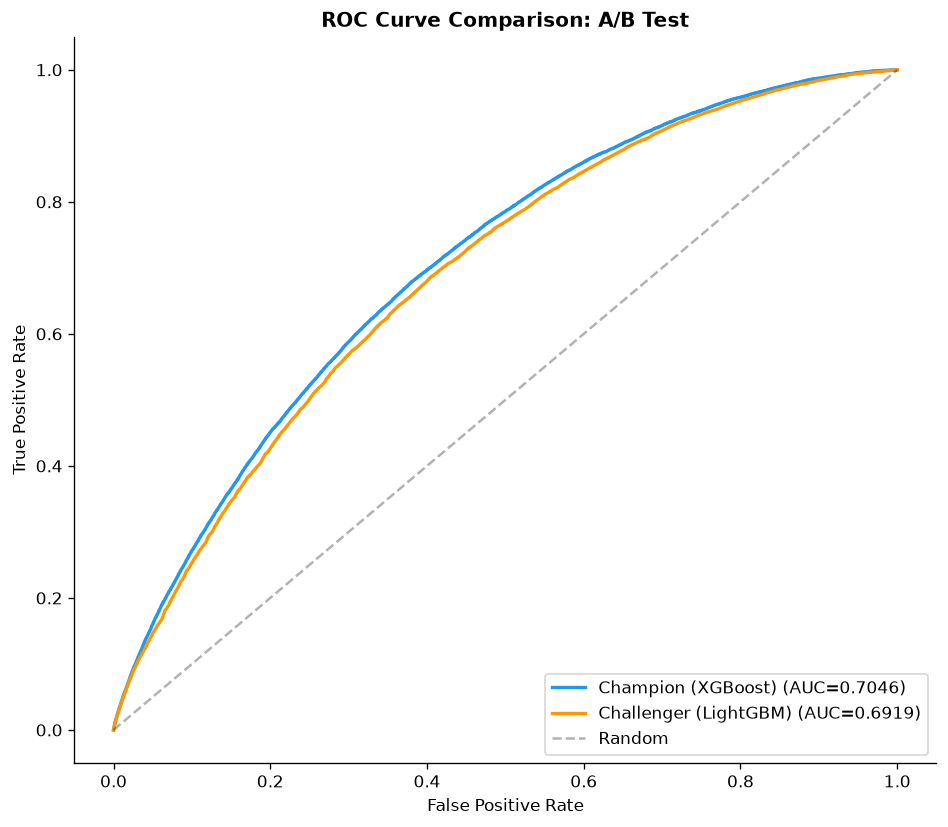
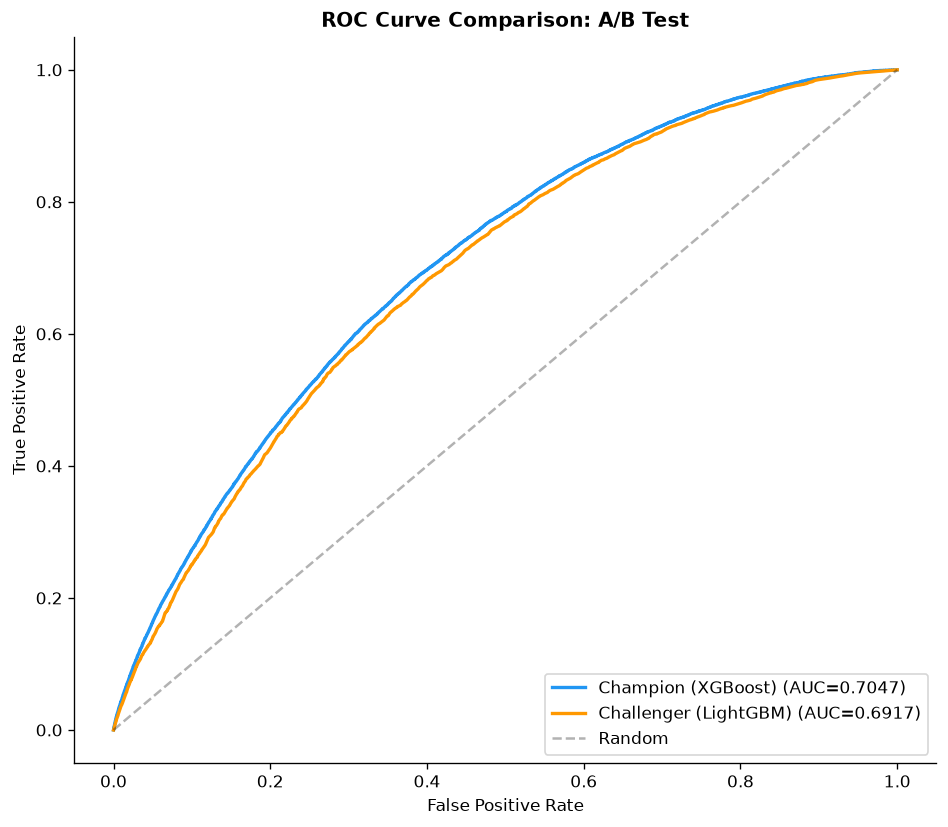
fix: correct A/B test routing bug - each loan routed to one model only

diff --git a/scripts/run_ab_test.py b/scripts/run_ab_test.py
@@ -151,11 +151,8 @@ def simulate_ab_test(
 ) -> pd.DataFrame:
     print("\n=== Step 2: Simulating A/B test on test set ===")
 
-    X_test = test[feature_cols]
-    y_test = test["default"]
-
-    champion_proba = champion_model.predict_proba(X_test)[:, 1]
-    challenger_proba = challenger_model.predict_proba(X_test)[:, 1]
+    X_test = test[feature_cols].values
+    y_test = test["default"].values
 
     rng = np.random.RandomState(RANDOM_SEED)
     assignment = rng.choice(
@@ -164,10 +161,28 @@ def simulate_ab_test(
         p=[CHAMPION_PCT, 1 - CHAMPION_PCT],
     )
 
-    champion_decision = np.where(champion_proba >= CHAMPION_THRESHOLD, "deny", "approve")
-    challenger_decision = np.where(
-        challenger_proba >= CHAMPION_THRESHOLD, "deny", "approve"
-    )
+    champ_mask = assignment == "champion"
+    chall_mask = ~champ_mask
+
+    prediction_proba = np.full(len(test), np.nan)
+    prediction_proba[champ_mask] = champion_model.predict_proba(
+        X_test[champ_mask]
+    )[:, 1]
+    prediction_proba[chall_mask] = challenger_model.predict_proba(
+        X_test[chall_mask]
+    )[:, 1]
+
+    decision = np.where(prediction_proba >= CHAMPION_THRESHOLD, "deny", "approve")
+
+    n_champ = int(champ_mask.sum())
+    n_chall = int(chall_mask.sum())
+    print(f"  Champion:   {n_champ} ({n_champ / len(test):.1%})")
+    print(f"  Challenger: {n_chall} ({n_chall / len(test):.1%})")
+
+    champ_approve = (decision[champ_mask] == "approve").sum()
+    chall_approve = (decision[chall_mask] == "approve").sum()
+    print(f"  Champion approval rate:   {champ_approve / n_champ:.4f}")
+    print(f"  Challenger approval rate: {chall_approve / n_chall:.4f}")
 
     REPORTS_DIR.mkdir(parents=True, exist_ok=True)
     log_path = REPORTS_DIR / "ab_test_log.jsonl"
@@ -175,43 +190,29 @@ def simulate_ab_test(
 
     with open(log_path, "w", encoding="utf-8") as f:
         for i in range(len(test)):
-            assigned = assignment[i]
-            proba = float(
-                champion_proba[i] if assigned == "champion" else challenger_proba[i]
-            )
-            decision = (
-                champion_decision[i] if assigned == "champion" else challenger_decision[i]
-            )
             entry = {
                 "model_version": (
                     "champion_xgboost_v1"
-                    if assigned == "champion"
+                    if champ_mask[i]
                     else "challenger_lgbm_v1"
                 ),
                 "loan_amnt": float(test.iloc[i]["loan_amnt"]),
                 "int_rate": float(test.iloc[i]["int_rate"]),
                 "fico_range_low": float(test.iloc[i]["fico_range_low"]),
-                "prediction_proba": round(proba, 4),
-                "decision": decision,
+                "prediction_proba": round(float(prediction_proba[i]), 4),
+                "decision": decision[i],
                 "timestamp": now,
             }
             f.write(json.dumps(entry) + "\n")
 
     print(f"  Logged {len(test)} predictions to {log_path}")
 
-    n_champ = (assignment == "champion").sum()
-    n_chall = (assignment == "challenger").sum()
-    print(f"  Champion: {n_champ} ({n_champ/len(test):.1%})")
-    print(f"  Challenger: {n_chall} ({n_chall/len(test):.1%})")
-
     results_df = pd.DataFrame(
         {
             "assignment": assignment,
-            "champion_proba": champion_proba,
-            "challenger_proba": challenger_proba,
-            "champion_decision": champion_decision,
-            "challenger_decision": challenger_decision,
-            "actual_default": y_test.values,
+            "prediction_proba": prediction_proba,
+            "decision": decision,
+            "actual_default": y_test,
         }
     )
     return results_df
@@ -229,22 +230,28 @@ def run_statistical_analysis(
     n_champ = int(champ_mask.sum())
     n_chall = int(chall_mask.sum())
 
-    champ_approved = (results_df.loc[champ_mask, "champion_decision"] == "approve").sum()
-    chall_approved = (
-        results_df.loc[chall_mask, "challenger_decision"] == "approve"
-    ).sum()
+    champ_decisions = results_df.loc[champ_mask, "decision"]
+    chall_decisions = results_df.loc[chall_mask, "decision"]
+    champ_approved = int((champ_decisions == "approve").sum())
+    chall_approved = int((chall_decisions == "approve").sum())
 
     p_champ = champ_approved / n_champ
     p_chall = chall_approved / n_chall
 
-    champ_avg_prob = float(results_df.loc[champ_mask, "champion_proba"].mean())
-    chall_avg_prob = float(results_df.loc[chall_mask, "challenger_proba"].mean())
+    champ_avg_prob = float(results_df.loc[champ_mask, "prediction_proba"].mean())
+    chall_avg_prob = float(results_df.loc[chall_mask, "prediction_proba"].mean())
 
     champ_auc = float(
-        roc_auc_score(results_df["actual_default"], results_df["champion_proba"])
+        roc_auc_score(
+            results_df.loc[champ_mask, "actual_default"],
+            results_df.loc[champ_mask, "prediction_proba"],
+        )
     )
     chall_auc = float(
-        roc_auc_score(results_df["actual_default"], results_df["challenger_proba"])
+        roc_auc_score(
+            results_df.loc[chall_mask, "actual_default"],
+            results_df.loc[chall_mask, "prediction_proba"],
+        )
     )
 
     p_pool = (champ_approved + chall_approved) / (n_champ + n_chall)
@@ -255,8 +262,8 @@ def run_statistical_analysis(
 
     contingency = np.array(
         [
-            [int(champ_approved), int(n_champ - champ_approved)],
-            [int(chall_approved), int(n_chall - chall_approved)],
+            [champ_approved, n_champ - champ_approved],
+            [chall_approved, n_chall - chall_approved],
         ]
     )
     chi2, chi2_p, chi2_dof, _ = stats.chi2_contingency(contingency)
@@ -280,7 +287,8 @@ def run_statistical_analysis(
         reason = (
             f"Champion XGBoost (AUC={champ_auc:.4f}) outperforms "
             f"challenger LightGBM (AUC={chall_auc:.4f}). "
-            f"Approval rates: champion={p_champ:.4f}, challenger={p_chall:.4f}."
+            f"Approval rates: champion={p_champ:.4f}, "
+            f"challenger={p_chall:.4f}."
         )
 
     analysis = {
@@ -299,7 +307,10 @@ def run_statistical_analysis(
             "champion": round(champ_avg_prob, 4),
             "challenger": round(chall_avg_prob, 4),
         },
-        "auc": {"champion": round(champ_auc, 4), "challenger": round(chall_auc, 4)},
+        "auc": {
+            "champion": round(champ_auc, 4),
+            "challenger": round(chall_auc, 4),
+        },
         "z_test": {
             "z_statistic": round(z_stat, 4),
             "p_value": round(z_pvalue, 6),
@@ -376,9 +387,12 @@ def generate_plots(
     plt.close()
     print(f"  Saved: {path1}")
 
+    champ_mask = results_df["assignment"] == "champion"
+    chall_mask = results_df["assignment"] == "challenger"
+
     fig, ax = plt.subplots(figsize=(10, 5))
     ax.hist(
-        results_df["champion_proba"],
+        results_df.loc[champ_mask, "prediction_proba"],
         bins=80,
         alpha=0.5,
         label="Champion (XGBoost)",
@@ -386,7 +400,7 @@ def generate_plots(
         density=True,
     )
     ax.hist(
-        results_df["challenger_proba"],
+        results_df.loc[chall_mask, "prediction_proba"],
         bins=80,
         alpha=0.5,
         label="Challenger (LightGBM)",
@@ -413,12 +427,13 @@ def generate_plots(
     print(f"  Saved: {path2}")
 
     fig, ax = plt.subplots(figsize=(8, 7))
-    y_true = results_df["actual_default"]
 
-    for name, proba, color in [
-        ("Champion (XGBoost)", results_df["champion_proba"], "#2196F3"),
-        ("Challenger (LightGBM)", results_df["challenger_proba"], "#FF9800"),
+    for name, mask, color in [
+        ("Champion (XGBoost)", champ_mask, "#2196F3"),
+        ("Challenger (LightGBM)", chall_mask, "#FF9800"),
     ]:
+        y_true = results_df.loc[mask, "actual_default"]
+        proba = results_df.loc[mask, "prediction_proba"]
         fpr, tpr, _ = roc_curve(y_true, proba)
         auc_val = roc_auc_score(y_true, proba)
         ax.plot(fpr, tpr, label=f"{name} (AUC={auc_val:.4f})", linewidth=2, color=color)